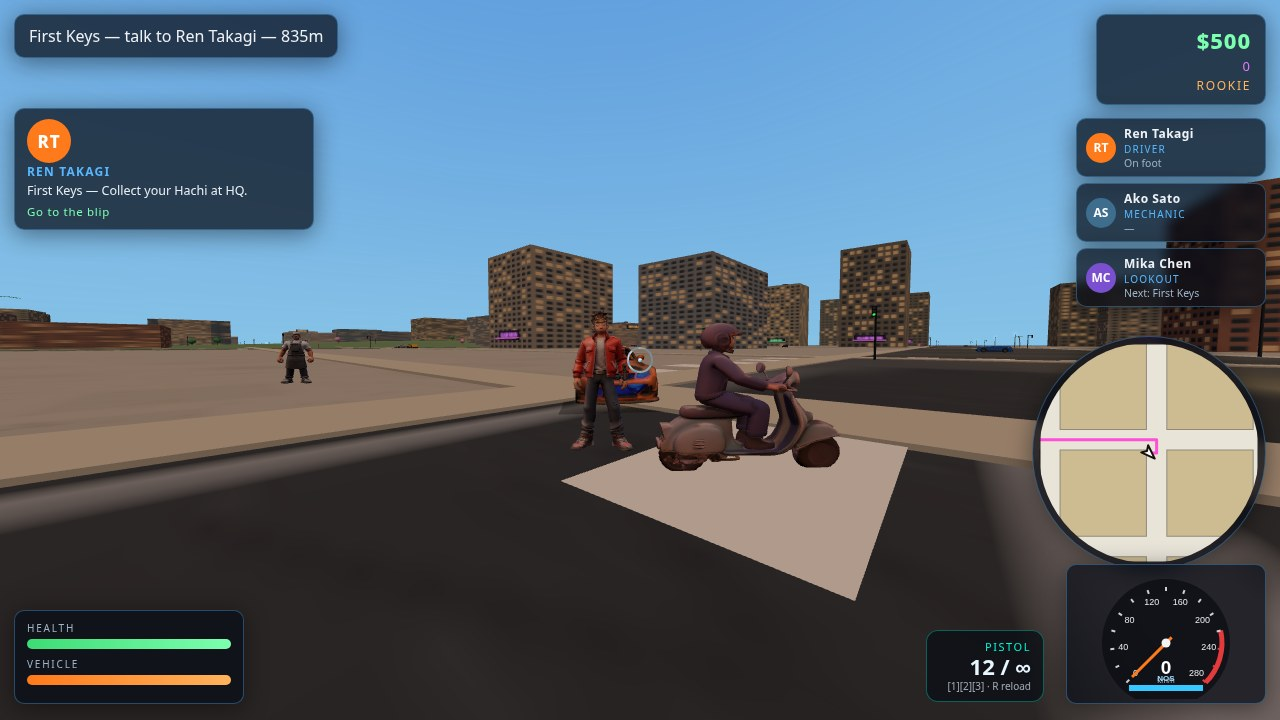
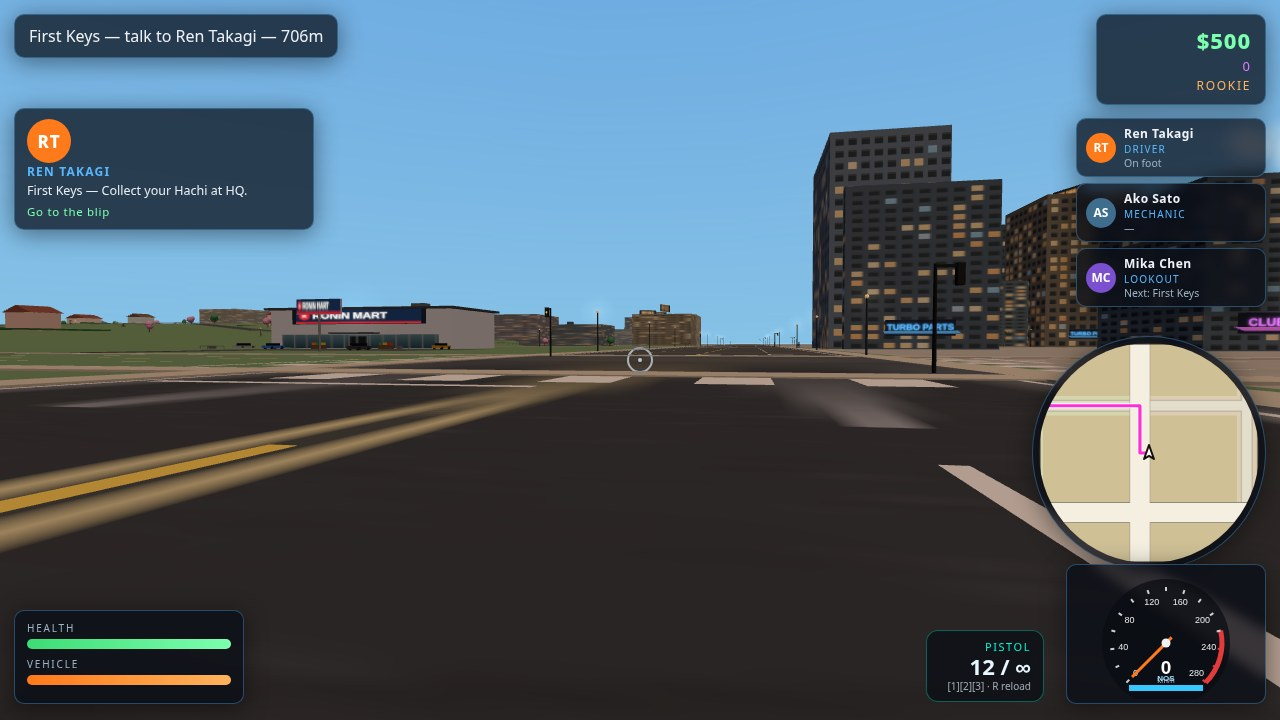
Fix round: F4 shot staging (markings/houses/market/sky/busy modes, hero beach-dusk, night lamp-lit) + refreshed dossier frames (cover=markings proof, meet)

Changed region(s): [[0.0, 0.1528, 1.0, 1.0], [0.2188, 0.0306, 0.25, 0.0611]]

diff --git a/game/src/shots.js b/game/src/shots.js
@@ -25,7 +25,7 @@ function cam(G, x, y, z, lx, ly, lz) {
 export function setupShot(G, name) {
   G.shot = name;
   G.shotMode = name; // S35: hud.js' staged-radio path reads G.shotMode (never set before)
-  if (name === 'city') {
+  if (name === 'city' || name === 'cover') {
     const v = spawnVehicle(G, 'hero-supra', 150, -148, 0.85, { driver: 'parked' });
     if (G.player) {
       G.player.x = 153.2; G.player.z = -144.6; G.player.angle = 0.8;
@@ -135,9 +135,16 @@ export function setupShot(G, name) {
     // SOLO on the coast road: front-3/4 beauty shot of the orange hero
     // GLB against the ocean at golden hour. Camera installed FIRST in
     // the block (S35 cam-first lesson), then tod, then the spawn.
-    cam(G, 93, 1.4, 480, 100.5, 0.8, 491.5);
+    // F4: the hero shot is now the VICE-COAST proof — beach boulevard
+    // (z=495 main) at SUNSET. At tod 18.0 the sky.js sun sits low over
+    // the ocean toward (-x,+z), so the camera moves to the car's NE and
+    // looks SW across it: boulevard, boardwalk palms, pastel deco
+    // facades (cz=577.5 row) and the low sun over the water all share
+    // the frame behind the hero car.
+    cam(G, 114, 1.5, 479, 97, 0.9, 493);
+    G.updaters.push(() => { if (G.shotCam) G.shotCam(); }); // F4: pin shot camera against follow-cam pullback on slow captures
     G.radioName = 'WAVEFORM FM'; G._radioIdx = 0; // S26 amendment A: radio chip
-    G.timeOfDay = 17.8;
+    G.timeOfDay = 18.0;
     const v = spawnVehicle(G, 'taiyo', 100, 491, 1.2, { driver: 'parked' });
     void v;
   } else if (name === 'svj') {
@@ -316,11 +323,136 @@ export function setupShot(G, name) {
   } else if (name === 'night') {
     // S25 verify: taiyo staged in-car on the avenue at night (tod 21.5,
     // D = 1) so headlight cones + glow rake across the asphalt.
+    // F4: restaged onto the x=0 MAIN — F1's ~420 street lamps only line
+    // the mains (x=0, x=330, z=0, z=495), so the old x=165 avenue frame
+    // had no lamp rhythm to prove. Car on the x=0 carriageway, camera
+    // behind it looking north down the main: lamp glow heads + ground
+    // pools repeat ~45 m on both sides into the distance, downtown
+    // facades (lit windows / neon) flanking. Player staged on the east
+    // sidewalk as a night pedestrian (also keeps ambient traffic near).
     G.timeOfDay = 21.5;
     G.radioName = 'WAVEFORM FM'; G._radioIdx = 0; // S26 amendment A: radio chip (in-car)
-    const v = spawnVehicle(G, 'taiyo', 165, -120, 0, { driver: 'parked' });
+    const v = spawnVehicle(G, 'taiyo', 5, -40, 0, { driver: 'parked' });
     const drv = makeFigure(CAST.ren); poseSeated(drv); drv.position.set(-0.4, 0.42, 0.15); v.mesh.add(drv);
-    cam(G, 172, 2.0, -104, 164, 0.8, -122);
+    if (G.player) {
+      G.player.x = 14; G.player.z = -26; G.player.angle = Math.PI;
+      G.player.fig.position.set(14, groundH(14, -26), -26);
+      G.player.fig.rotation.y = Math.PI;
+    }
+    cam(G, 13, 2.0, -18, 2, 0.7, -58);
+    G.updaters.push(() => { if (G.shotCam) G.shotCam(); }); // F4: pin shot camera against follow-cam pullback on slow captures
+  } else if (name === 'markings') {
+    // F4 proof (F1 road markings): low over the x=0 arterial looking
+    // north to the (0,-165) intersection — yellow centre dashes, white
+    // lane dividers at ±7.5 m and edge lines run through the foreground,
+    // stop line + zebra crossing close the frame at the intersection.
+    G.timeOfDay = 10.5;
+    if (G.player) {
+      G.player.x = 14; G.player.z = -92;
+      G.player.fig.position.set(14, groundH(14, -92), -92);
+    }
+    cam(G, 5.5, 1.3, -126, -1, 0.3, -160);
+    G.updaters.push(() => { if (G.shotCam) G.shotCam(); }); // F4: pin shot camera against follow-cam pullback on slow captures
+  } else if (name === 'sky') {
+    // F4 proof (F2 sun + clouds): morning, tod 8.8 puts the sky.js sun
+    // at ~39° elevation toward azimuth ~63° (sun dir cos/sin of
+    // ((8.8-6)/12)*PI, z bias 0.38; lower + warmer than the 9.5 staging,
+    // whose disc washed out against the noon-blue). Camera in the open
+    // (0,0) intersection, tilted up ~36° along that azimuth: rooftops
+    // sit low in frame, sun disc + cloud clusters (y 150-265,
+    // camera-anchored) fill the blue above.
+    G.timeOfDay = 8.8;
+    if (G.player) {
+      G.player.x = -34; G.player.z = -18;
+      G.player.fig.position.set(-34, groundH(-34, -18), -18);
+    }
+    cam(G, -30, 1.8, -14, 17, 30, 10);
+    G.updaters.push(() => { if (G.shotCam) G.shotCam(); }); // F4: pin shot camera against follow-cam pullback on slow captures
+  } else if (name === 'busy') {
+    // F4 proof (F2 NPC life): downtown chat-group corner (182.2,147.8)
+    // on the (165,165) intersection's NW sidewalk. The 3 chat peds face
+    // each other there permanently (peds.js idx 6-8); staging adds the
+    // player as a bystander, 3 relocated sidewalk walkers (two along
+    // the z=147.8 sidewalk line, one up the x=182.2 line — same
+    // line/off mirror as the 'city' cover staging) and a taxi held at
+    // the corner on the x=165 carriageway for traffic. Ambient traffic
+    // also routes through this intersection (player is local, so the
+    // >500 m traffic respawn keeps vehicles near).
+    G.timeOfDay = 11;
+    if (G.player) {
+      G.player.x = 176.5; G.player.z = 153.5; G.player.angle = Math.atan2(182.2 - 176.5, 147.8 - 153.5);
+      G.player.fig.position.set(176.5, groundH(176.5, 153.5), 153.5);
+      G.player.fig.rotation.y = G.player.angle;
+    }
+    try {
+      const spots = [
+        { x: 166, z: 147.8, vertical: false, dir: 1 },
+        { x: 198, z: 147.8, vertical: false, dir: -1 },
+        { x: 182.2, z: 158, vertical: true, dir: 1 },
+      ];
+      const pool = Array.isArray(G.peds) ? G.peds.filter((p) => p && p.fig && !p.downed && !p.chat && p.mode !== 'cross' && !p.follow) : [];
+      const stagedPeds = [
+        ...pool.filter((p) => p.figIsGlb),
+        ...pool.filter((p) => !p.figIsGlb),
+      ].slice(0, spots.length);
+      stagedPeds.forEach((ped, i) => {
+        const s = spots[i];
+        ped.x = s.x; ped.z = s.z;
+        ped.idle = false;
+        ped.fleeT = 0; ped.fleeDir = null;
+        ped.vertical = s.vertical;
+        ped.off = (typeof ped.off === 'number' && ped.off !== 0) ? ped.off : 17.2;
+        ped.line = (s.vertical ? s.x : s.z) - ped.off;
+        ped.dir = s.dir;
+        ped.angle = s.vertical ? (s.dir > 0 ? 0 : Math.PI) : (s.dir > 0 ? Math.PI / 2 : -Math.PI / 2);
+        try {
+          ped.fig.position.set(s.x, groundH(s.x, s.z), s.z);
+          ped.fig.rotation.y = ped.angle;
+        } catch (e) { /* updater repositions it next frame anyway */ }
+      });
+    } catch (e) { /* busy staging is dressing only — never break the shot */ }
+    spawnVehicle(G, 'taxi', 205, 171, -Math.PI / 2, { driver: 'parked' });
+    cam(G, 177.5, 1.6, 142.5, 183, 1.1, 149);
+    G.updaters.push(() => { if (G.shotCam) G.shotCam(); }); // F4: pin shot camera against follow-cam pullback on slow captures
+  } else if (name === 'houses') {
+    // F4 proof (F1 Hoshino Heights houses): the residential block at
+    // (-412.5,-412.5) has a house row at z=-381.5 facing +z (fronts,
+    // yards and driveways toward the z=-330 road). Camera stands on
+    // that road looking south so the pitched-roof row fills the frame;
+    // a wagon parked on the road anchors the foreground.
+    G.timeOfDay = 10.5;
+    if (G.player) {
+      G.player.x = -424; G.player.z = -370; G.player.angle = Math.PI;
+      G.player.fig.position.set(-424, groundH(-424, -370), -370);
+      G.player.fig.rotation.y = Math.PI;
+    }
+    // Parked on the driveway of the neighbouring x=-393 house
+    // (driveway aprons sit ~13 m in front of the front walls, +z side).
+    spawnVehicle(G, 'wagon', -396, -367, 0, { driver: 'parked' });
+    // Terrain here is NOT flat (heights/touge foothills): an absolute
+    // y=1.8 camera sank under the ground plane on the first captures.
+    // Anchor both camera and target heights to groundH. The row is
+    // sparse (38 m spacing across open grass), so the camera stands
+    // 15 m in front of the two-storey house at x=-431: its pitched
+    // roof / yard / driveway fill the centre, neighbours at x=-469
+    // and x=-393 (with the wagon) hold the frame edges.
+    cam(G, -433, groundH(-433, -366) + 1.7, -366, -430, groundH(-430, -383) + 1.6, -383);
+    G.updaters.push(() => { if (G.shotCam) G.shotCam(); }); // F4: pin shot camera against follow-cam pullback on slow captures
+  } else if (name === 'market') {
+    // F4 proof (F1 RONIN MART): the store at (-82.5,-255) fronts +z
+    // (sign band + glass at local z +11, parking pad in front, market
+    // chat group gathered at (-69.5,-246)). Camera SE of the lot at
+    // pad height for a front 3/4: sign, glass, canopy, parked cars on
+    // the pad, cart corrals and the gathering group in one frame.
+    // Player staged at the pad edge as a shopper.
+    G.timeOfDay = 11;
+    if (G.player) {
+      G.player.x = -52; G.player.z = -232; G.player.angle = Math.atan2(-82.5 + 52, -255 + 232);
+      G.player.fig.position.set(-52, groundH(-52, -232), -232);
+      G.player.fig.rotation.y = G.player.angle;
+    }
+    cam(G, -42, 3.4, -212, -80, 3.2, -250);
+    G.updaters.push(() => { if (G.shotCam) G.shotCam(); }); // F4: pin shot camera against follow-cam pullback on slow captures
   } else if (name === 'mapzoom') {
     if (G.player) { G.player.x = 300; G.player.z = -300; G.player.fig.position.set(300, groundH(300, -300), -300); }
     G.flags.mapZoom = true;
@@ -382,7 +514,7 @@ export function setupShot(G, name) {
     cam(G, 176, 2.2, -128, 164, 1.0, -141);
   }
   // hide player figure overlap in staged car shots except meet/chars/mc/mapzoom/city
-  if (G.player && !['meet', 'chars', 'mc', 'mapzoom', 'city', 'shootout', 'smg', 'bat', 'wasted', 'busted', 'versus', 'chase'].includes(name)) {
+  if (G.player && !['meet', 'chars', 'mc', 'mapzoom', 'city', 'cover', 'shootout', 'smg', 'bat', 'wasted', 'busted', 'versus', 'chase', 'markings', 'sky', 'busy', 'houses', 'market', 'night'].includes(name)) {
     G.player.x = -412.5; G.player.z = 470;
   }
 }
